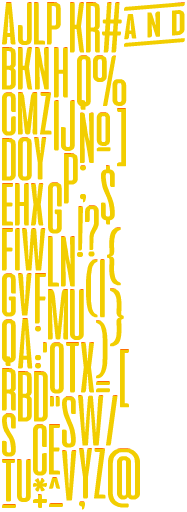
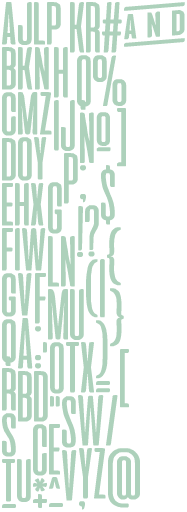
Fix bitmapText colour

diff --git a/src/features/game/assets/ImageAssets.ts b/src/features/game/assets/ImageAssets.ts
@@ -27,7 +27,7 @@ const ImageAssets: AssetMap<ImageAsset> = {
 
   // Awards Menu
   awardsMenu: { key: 'award-bg', path: '/ui/collectiblesBg.png' },
-  awardsBanner: { key: 'award-banner', path: '/ui/collectiblesBanner.png' },
+  awardsBanner: { key: 'award-banner', path: '/ui/awardsBanner.png' },
   awardsPageChosen: {
     key: 'award-pg-chosen',
     path: '/ui/collectiblesPageOptChosen.png'

diff --git a/src/features/game/awards/GameAwardsConstants.ts b/src/features/game/awards/GameAwardsConstants.ts
@@ -34,7 +34,7 @@ export const awardKeyStyle: BitmapFontStyle = {
 
 export const awardDescStyle = {
   fontFamily: 'Verdana',
-  fontSize: '20px',
+  fontSize: '18px',
   fill: Color.lightBlue,
   align: 'center',
   lineSpacing: 10,
